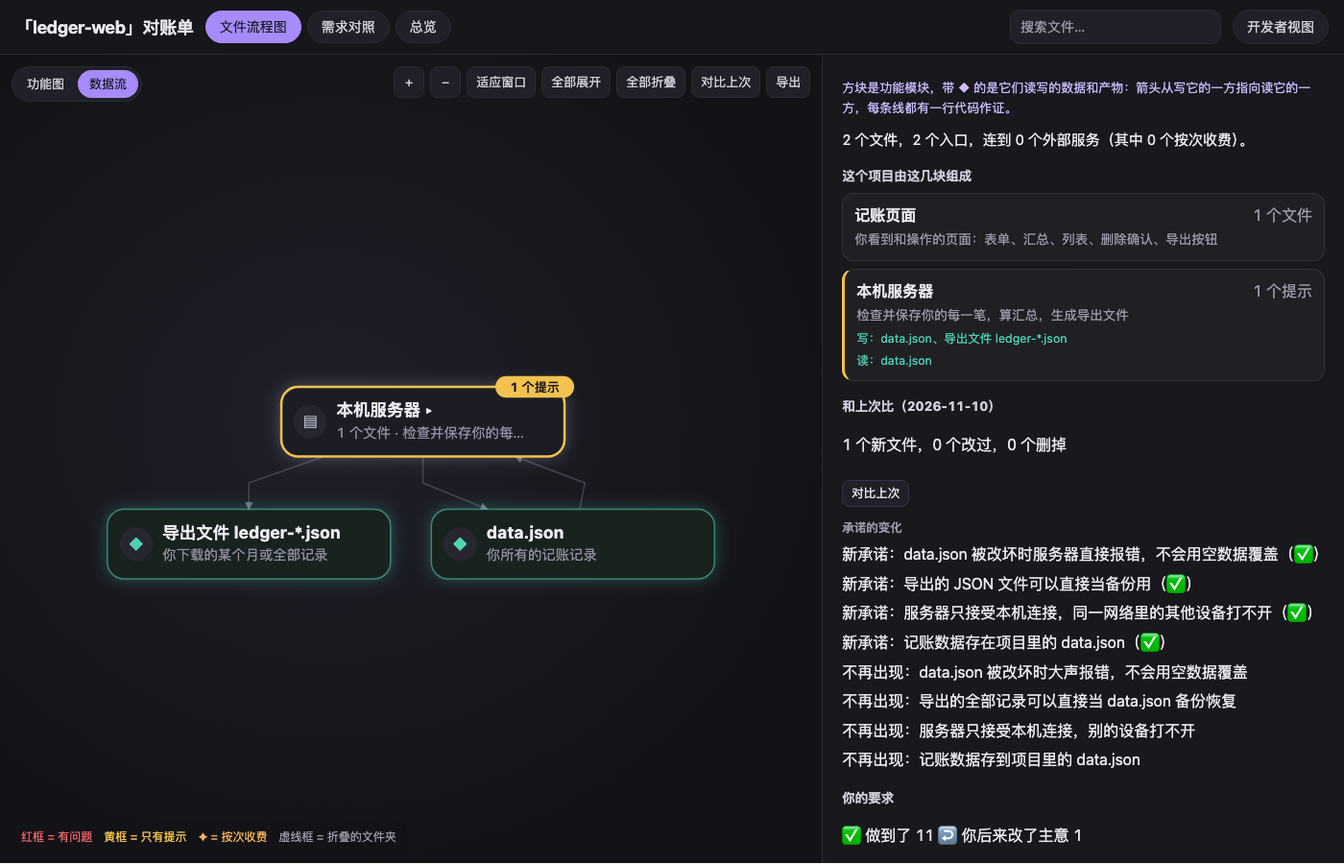
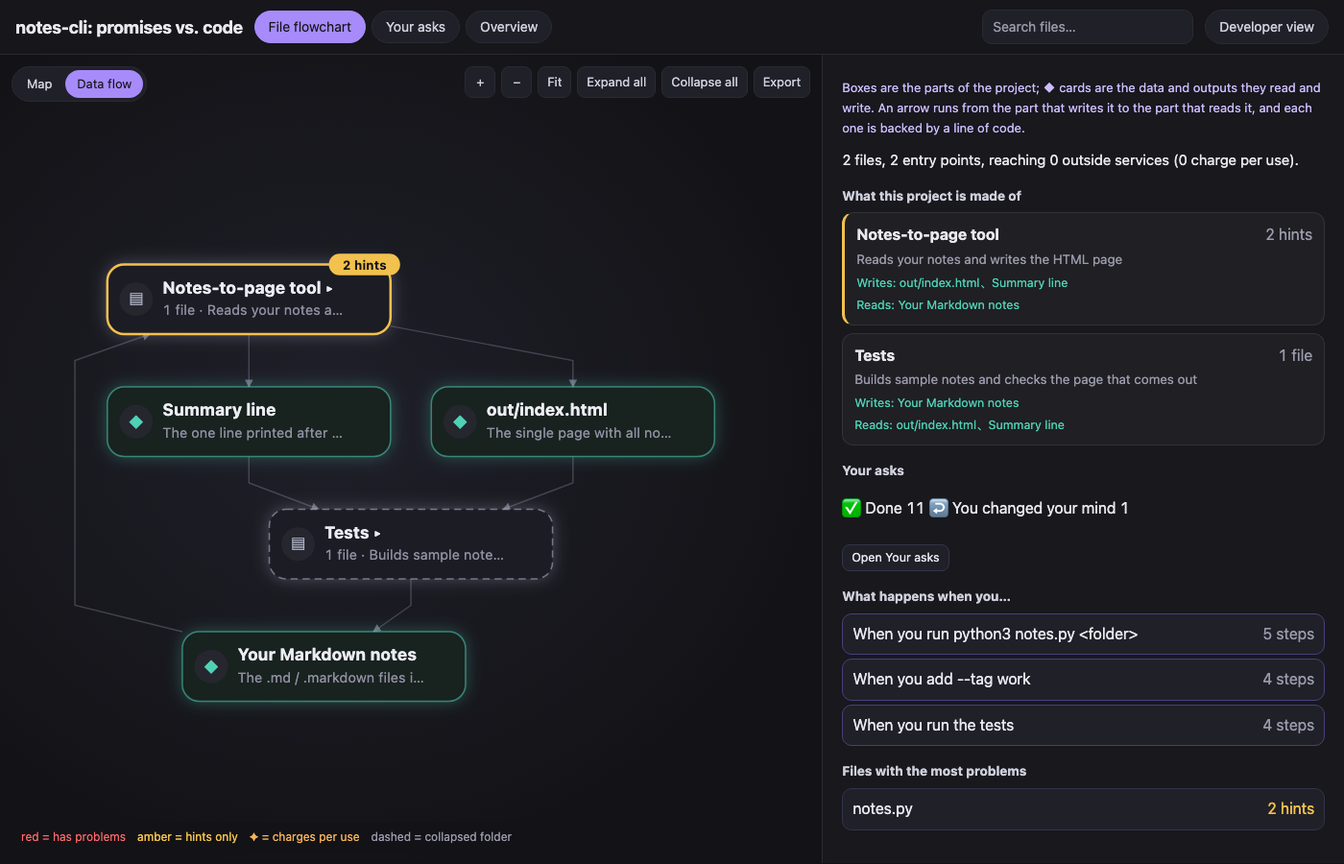
1.0.0: English and Chinese READMEs, plugin homepage, two-way link labels, English plurals
- README.md (English, default) and README_CN.md (Chinese) link each other; each shows
  screenshots in its own language, taken from the synthetic test apps only.
- Map: when two parts send data both ways, each link label sits on its own side of the
  line instead of both printing at the midpoint.
- English UI: "{n|file|files}" plural token in i18n.t and graph.js fmt (1 file, 1 hint).
- plugin.json gains homepage/repository; version 1.0.0 everywhere.

diff --git a/scripts/ledger_report/assets/graph.js b/scripts/ledger_report/assets/graph.js
@@ -45,7 +45,10 @@
   (data.journeys || []).forEach(function (j) { journeyById[j.id] = j; });
   var pointers = {}, drag = null, pinch = null, moved = false;
 
-  function fmt(s, kv) { return String(s).replace(/\{(\w+)\}/g, function (_, k) { return kv[k] == null ? "" : kv[k]; }); }
+  function fmt(s, kv) {  // "{n|file|files}" picks the word for one or for others (same rule as i18n.t)
+    return String(s).replace(/\{(\w+)\|([^|{}]*)\|([^{}]*)\}/g, function (_, k, one, many) { return kv[k] === 1 ? one : many; })
+      .replace(/\{(\w+)\}/g, function (_, k) { return kv[k] == null ? "" : kv[k]; });
+  }
   function el(tag, cls, text) { var e = document.createElement(tag); if (cls) e.className = cls; if (text != null) e.textContent = text; return e; }
   function sv(tag, attrs) { var e = document.createElementNS(NS, tag); Object.keys(attrs || {}).forEach(function (k) { e.setAttribute(k, attrs[k]); }); return e; }
   function units(s) { var n = 0; for (var i = 0; i < s.length; i++) n += s.charCodeAt(i) > 0x2e80 ? 2 : 1; return n; }
@@ -268,9 +271,12 @@
       var carries = mode === "map" && e.carries && e.carries.length ? e.carries.slice(0, 2).join(" · ") + (e.carries.length > 2 ? " …" : "")
         : mode === "data" && !AREAS && (data.data_flow.labels || {})[e.from + "\u0001" + e.to];
       if (carries) {  // what this link sends, from the verified app map
+        // two parts sending data both ways share one line: each label takes its own side of it, not the middle
+        var back = layout.edges[e.to + "\u0001" + e.from], twoWay = mode === "map" && back && back.carries && back.carries.length,
+          side = e.from < e.to ? -1 : 1;
         var c = mode === "map"
-          ? sv("text", { x: mid.x.toFixed(1), y: (mid.y - 6).toFixed(1), "class": "vlg-edge-label carries", "text-anchor": "middle",
-              "data-from": e.from, "data-to": e.to })
+          ? sv("text", { x: (mid.x + (twoWay ? side * 10 : 0)).toFixed(1), y: (mid.y - 6).toFixed(1), "class": "vlg-edge-label carries",
+              "text-anchor": twoWay ? (side < 0 ? "end" : "start") : "middle", "data-from": e.from, "data-to": e.to })
           : sv("text", { x: (ends[1].x - 10).toFixed(1), y: (ends[1].y - 7).toFixed(1), "class": "vlg-edge-label carries",
               "text-anchor": "end", "data-from": e.from, "data-to": e.to });
         c.textContent = carries;

diff --git a/scripts/ledger_report/i18n.py b/scripts/ledger_report/i18n.py
@@ -207,7 +207,7 @@ STR = {
         "g_role_entry": "Entry", "g_role_logic": "Logic", "g_role_data": "Data", "g_role_paid": "Paid service", "g_role_folder": "Folder",
         "g_legend_bad": "red = has problems", "g_legend_warn": "amber = hints only", "g_legend_paid": "✦ = charges per use",
         "g_legend_folder": "dashed = collapsed folder",
-        "g_badge_bad": "{n} problems", "g_badge_warn": "{n} hints",
+        "g_badge_bad": "{n} {n|problem|problems}", "g_badge_warn": "{n} {n|hint|hints}",
         "g_summary": "{files} files, {entries} entry points, reaching {ext} outside services ({paid} charge per use).",
         "g_howto_1": "Read left to right: entry → logic → data & outside; an arrow means \"calls\".",
         "g_howto_2": "Click a file to read what it does; its callers and callees stay sharp, the rest fades.",
@@ -218,18 +218,18 @@ STR = {
         "g_history": "History", "g_no_history_tx": "No conversations were found", "g_no_history": "No conversation touched this file",
         "g_edits": "Changed {count} times in the conversations ({first} to {last})",
         "g_no_explain": "No detailed explanation yet; this is the automatic summary.", "g_unverified": "Unverified: {ids} not found in the project",
-        "g_auto_entry": "This is an entry point ({reason}).", "g_auto_exports": "Provides {n} names: {names}.",
-        "g_auto_noexports": "Provides no functions.", "g_auto_used": "Used by {n} files.",
-        "g_auto_external": "{label}: {n} files in the project reach it.",
-        "g_folder_files": "{n} files · click to open", "g_folder_members": "Files inside", "g_collapse": "Collapse this folder",
-        "g_lines": "{n} lines", "g_in_overview": "See in Overview", "g_where": "Where in the code", "g_close": "Close",
+        "g_auto_entry": "This is an entry point ({reason}).", "g_auto_exports": "Provides {n} {n|name|names}: {names}.",
+        "g_auto_noexports": "Provides no functions.", "g_auto_used": "Used by {n} {n|file|files}.",
+        "g_auto_external": "{label}: {n} {n|file|files} in the project {n|reaches|reach} it.",
+        "g_folder_files": "{n} {n|file|files} · click to open", "g_folder_members": "Files inside", "g_collapse": "Collapse this folder",
+        "g_lines": "{n} {n|line|lines}", "g_in_overview": "See in Overview", "g_where": "Where in the code", "g_close": "Close",
         "g_compromise": "Workaround after an error", "g_dev_snippet": "Code",
         "g_no_files": "No JS/TS or Python files were found in this project, so the flowchart is empty.",
-        "g_merged": "{n} imports",
-        "g_journeys": "What happens when you…", "g_journey_steps": "{n} steps", "g_position": "Where it fits",
+        "g_merged": "{n} {n|import|imports}",
+        "g_journeys": "What happens when you…", "g_journey_steps": "{n} {n|step|steps}", "g_position": "Where it fits",
         "g_position_step": "{title} — step {k} of {n}: {plain}", "g_position_none": "This file is not on any of the routes written for this project.",
         "g_open_journey": "Show this route", "g_journey_outcome": "In the end: {outcome}", "g_back": "Back to overview",
-        "g_unlinked": "No direct import links this step to the one before", "g_skip": "Skip to the explanation panel", "g_exports_n": "{n} exports", "g_dev_note": "Technical note",
+        "g_unlinked": "No direct import links this step to the one before", "g_skip": "Skip to the explanation panel", "g_exports_n": "{n} {n|export|exports}", "g_dev_note": "Technical note",
         "g_mode_files": "Files", "g_mode_modules": "Modules", "g_mode_data": "Data flow",
         "g_modules_hint": "Each box is a module (a folder); the number on a link is how many imports it stands for. Click a module to open it in place.",
         "g_data_hint": "Only the files on a path from an entry to a data store or outside service; a link says what it sends (from the verified app map in the overview).",
@@ -255,7 +255,7 @@ STR = {
         "cov_explain_dropped": "{n} parts of the file explanations failed the checks and were left out of the panel:",
         "g_support": "Shared parts (no data passes through them; the others call them)",
         "g_mode_map": "Map", "g_mode_flow": "Data flow", "g_areas_title": "What this project is made of",
-        "g_area_sub": "{n} files · {plain}", "g_area_row": "{n} files",
+        "g_area_sub": "{n} {n|file|files} · {plain}", "g_area_row": "{n} {n|file|files}",
         "g_area_other_name": "Other", "g_area_other_plain": "Files no area claims",
         "g_area_of": "Part of “{name}”: {plain}",
         "g_map_hint": "Each box is one part of the project; click it to open its files in place. A link says what data passes between two parts (dashed = only through that data, no direct call), or how many calls it stands for.",
@@ -269,7 +269,7 @@ STR = {
         "r_intro": "Every requirement you gave in the conversations, checked one by one against the code as it is now. Each verdict carries checked evidence; what could not be checked shows ❓.",
         "r_status_done": "Done", "r_status_partial": "Partly done", "r_status_missing": "Not done",
         "r_status_changed": "Done differently", "r_status_superseded": "You changed your mind", "r_status_unknown": "Can't tell",
-        "r_summary": "{n} requirements from your {messages} messages; {skipped} more were confirmations, process instructions or questions.",
+        "r_summary": "{n} {n|requirement|requirements} from your {messages} {messages|message|messages}; {skipped} more {skipped|was a confirmation, process instruction or question|were confirmations, process instructions or questions}.",
         "r_summary_unaccounted": " {n} messages are not accounted for (listed at the bottom).",
         "r_filter_problems": "Problems only",
         "r_changed_to": "What was built instead: {text}", "r_agreed": "You agreed to this change · {date}",
@@ -281,20 +281,25 @@ STR = {
         "r_cov_title": "What this page does not cover",
         "r_cov_messages": "You sent {n} messages; {cited} of them are the source of a requirement",
         "r_cov_skipped": "Not counted as requirements: {parts}",
-        "r_skip_ack": "{n} confirmations", "r_skip_process": "{n} process instructions (push, check, status…)",
-        "r_skip_question": "{n} questions", "r_skip_not_project": "{n} about something else",
+        "r_skip_ack": "{n} {n|confirmation|confirmations}", "r_skip_process": "{n} process {n|instruction|instructions} (push, check, status…)",
+        "r_skip_question": "{n} {n|question|questions}", "r_skip_not_project": "{n} about something else",
         "r_cov_noise": "{n} more were written by the tool itself (such as interruption notes) and are not counted",
         "r_cov_unaccounted": "{n} messages are neither a requirement nor skipped with a reason — a requirement may be missing here:",
         "r_cov_rejected": "{n} requirements failed the checks (the quote was not found, or you did not say it) and are not listed:",
         "g_requirements": "What you asked about this file", "g_req_title": "Your asks", "g_req_open": "Open Your asks",
-        "g_req_unaccounted": "{n} messages not accounted for",
+        "g_req_unaccounted": "{n} {n|message|messages} not accounted for",
     },
 }
 
 
+PLURAL = re.compile(r"\{(\w+)\|([^|{}]*)\|([^{}]*)\}")  # "{n|file|files}": the word for one, the word for others
+
+
 def t(lang: str, key: str, **kw) -> str:
     text = STR.get(lang, STR["en"]).get(key, STR["en"][key])
-    return text.format(**kw) if kw else text
+    if not kw:
+        return text
+    return PLURAL.sub(lambda m: m.group(2) if kw.get(m.group(1)) == 1 else m.group(3), text).format(**kw)
 
 
 _CREDENTIALS_EN = ", and it also accepts the visitor's cookies and credentials"

diff --git a/tests/test_render_page.py b/tests/test_render_page.py
@@ -138,3 +138,16 @@ def test_without_conversations_the_report_does_not_claim_zero_problems():
     html = render.render_html(led, run, PROBES, "zh")
     assert "没做到 <b>0</b>" not in html and 'class="counts"' not in html
     assert "0 条承诺没做到" not in html and "没有对话记录，这一问无法回答" in html
+
+
+def test_english_counts_take_the_singular_for_one():
+    from pathlib import Path
+    from ledger_report.i18n import STR, t
+    assert t("en", "g_area_row", n=1) == "1 file" and t("en", "g_area_row", n=2) == "2 files"
+    assert t("en", "g_badge_warn", n=1) == "1 hint" and t("en", "g_badge_warn", n=0) == "0 hints"
+    one = t("en", "r_summary", n=1, messages=1, skipped=1)
+    assert one.startswith("1 requirement from your 1 message; 1 more was a confirmation"), one
+    assert t("zh", "g_area_row", n=1) == "1 个文件"
+    assert not any("|" in v and "{" in v for v in STR["zh"].values() if isinstance(v, str))
+    js = (Path(__file__).resolve().parents[1] / "scripts/ledger_report/assets/graph.js").read_text(encoding="utf-8")
+    assert "one : many" in js  # graph.js formats the same "{n|one|many}" token

diff --git a/tests/test_packaging.py b/tests/test_packaging.py
@@ -29,3 +29,14 @@ def test_manifest_shape():
 def test_readme_and_license_exist():
     readme = (REPO / "README.md").read_text(encoding="utf-8")
     assert "vl.py start" in readme and "MIT" in (REPO / "LICENSE").read_text(encoding="utf-8")
+
+
+def test_readmes_link_each_other_and_show_their_own_screenshots():
+    en = (REPO / "README.md").read_text(encoding="utf-8")
+    zh = (REPO / "README_CN.md").read_text(encoding="utf-8")
+    assert 'href="README_CN.md"' in en and 'href="README.md"' in zh
+    for text in (en, zh):
+        for img in __import__("re").findall(r'src="(docs/[^"]+)"', text):
+            assert (REPO / img).is_file(), img
+    assert "docs/assets/map-zh.png" in zh and "docs/assets/map.png" in en
+    assert "/plugin install vibe-ledger@vibe-ledger" in en and "/plugin install vibe-ledger@vibe-ledger" in zh

diff --git a/scripts/common.py b/scripts/common.py
@@ -12,7 +12,7 @@ from functools import lru_cache
 from pathlib import Path
 from typing import Iterable, Iterator
 
-__version__ = "0.3.0"
+__version__ = "1.0.0"
 
 _WS = re.compile(r"\s+")
 

diff --git a/README.md b/README.md
@@ -1,28 +1,52 @@
 # vibe-ledger
 
-You built an app by talking to an AI. vibe-ledger reads those conversations (Claude Code and Codex) and the code they produced, and gives you one offline page that answers three things: **what your app is made of, whether the AI built what you asked for, and where it could hurt you.** Every conclusion carries evidence a script has checked; anything it cannot check shows as ❓, never as fact.
+<p align="center"><strong>English</strong> · <a href="README_CN.md">简体中文</a></p>
 
-**中文简介**：用 AI 写出了应用，却看不懂它、也说不准 AI 有没有按你的要求做？vibe-ledger 读取你和 AI 的对话（Claude Code、Codex）和现在的代码，生成一份本地网页：项目由哪几块组成、数据怎么流动；你提过的每条要求做到了没有（做到 / 部分 / 没做 / 换了做法 / 你后来改了主意）；以及数据存在哪、谁能看到、什么会花钱、哪里最容易出事、还欠着什么。每个结论都有脚本核对过的证据，核对不了的标 ❓。
+<p align="center">
+  <a href="LICENSE"><img alt="License: MIT" src="https://img.shields.io/badge/License-MIT-yellow.svg"></a>
+  <img alt="Claude Code plugin" src="https://img.shields.io/badge/Claude_Code-plugin-5b5bd6">
+  <img alt="Reads Claude Code and Codex conversations" src="https://img.shields.io/badge/reads-Claude_Code_%2B_Codex-111827">
+  <img alt="Runs locally" src="https://img.shields.io/badge/runs-locally-0f766e">
+</p>
+
+You built an app by talking to an AI. vibe-ledger reads those conversations (Claude Code and Codex) and the code they produced, and gives you one offline page that answers three things: **what your app is made of, whether the AI built what you asked for, and where it could hurt you.** Every conclusion carries evidence a script has checked; anything it cannot check shows as ❓, never as fact.
 
 <p align="center"><img src="docs/assets/asks.png" alt="The Your asks tab: each request from the conversations with its verdict and evidence" width="860"></p>
 
 ## What you get
 
-**Your asks (需求对照).** Every request you typed, checked against the code as it is now: ✅ done, ⚠ partly, ❌ not done, 🔀 done differently (and whether you agreed), ↩ you changed your mind later, ❓ can't tell. Grouped by feature, with the line of code behind each verdict and a fix instruction you can paste back to your AI. A "not done" is backed by searches the tool re-runs over your project. Every message you sent is accounted for: a requirement, or skipped as a confirmation, a process instruction or a question — anything left over is listed, because a requirement may hide there.
+**Your asks.** Every request you typed, checked against the code as it is now: ✅ done, ⚠ partly, ❌ not done, 🔀 done differently (and whether you agreed), ↩ you changed your mind later, ❓ can't tell. Grouped by feature, with the line of code behind each verdict and a fix instruction you can paste back to your AI. A "not done" is backed by searches the tool re-runs over your project. Every message you sent is accounted for: a requirement, or skipped as a confirmation, a process instruction or a question — anything left over is listed, because a requirement may hide there.
 
-**The map (功能图).** Your project's parts — "配音", "交付检查", "行程页面" — each with one line on what it does, top to bottom in the order data moves, each link saying what passes ("storyboard.json"). Click a part to open its files; click a file for what it does, its main functions, who calls it, its risks and how it came to be. Routes ("what happens when you press Export") step through the files, with a sequence diagram.
+**The map.** Your project's parts — "Voice-over", "Delivery checks", "Trip page" — each with one line on what it does, top to bottom in the order data moves, each link saying what passes ("storyboard.json"). Click a part to open its files; click a file for what it does, its main functions, who calls it, its risks and how it came to be. Routes ("what happens when you press Export") step through the files, with a sequence diagram.
 
-**Data flow (数据流).** The parts, the data and outputs between them (◆) and the paid services they call. Click a data card to see the exact lines that write and read it.
+**Data flow.** The parts, the data and outputs between them (◆) and the paid services they call. Click a data card to see the exact lines that write and read it.
 
 <p align="center"><img src="docs/assets/map.png" alt="The map: the project's parts top to bottom with what passes between them" width="430"> <img src="docs/assets/flow.png" alt="Data flow: parts, data cards and outside services" width="430"></p>
 
-**Overview (总览).** The safety ledger: where your data lives, what costs money, who can see it (a matrix of strangers / other users / you), where it is most likely to break, and what was put off "for later" — each promise checked against the code, workarounds made just to get past an error called out, and what the report could not see.
+**Overview.** The safety ledger: where your data lives, what costs money, who can see it (a matrix of strangers / other users / you), where it is most likely to break, and what was put off "for later" — each promise checked against the code, workarounds made just to get past an error called out, and what the report could not see.
 
-Also: compare with the last run (new and changed files, links, risks), export the map as PNG or SVG, a plain view and a developer view, Chinese and English pages.
+Also: compare with the last run (new and changed files, links, promises and risks), export the map as PNG or SVG, a plain view and a developer view, Chinese and English pages.
+
+## Install
+
+Python 3.10+ and Google Chrome (for the screenshots; without it the agent reads the page instead). No other dependencies.
+
+As a Claude Code plugin:
+
+```
+/plugin marketplace add dong845/vibe-ledger
+/plugin install vibe-ledger@vibe-ledger
+```
+
+Or as a plain skill folder:
+
+```bash
+git clone --depth 1 https://github.com/dong845/vibe-ledger.git ~/.claude/skills/vibe-ledger
+```
 
 ## Use
 
-In Claude Code, with the skill installed, open your project and ask: *"explain my app and check it — did the AI build what I asked for?"* / *"帮我看懂这个 AI 写的项目，检查它有没有按我的要求做"*. The skill runs the steps itself and puts the report on your Desktop (or Downloads):
+In Claude Code, open your project and ask: *"explain my app and check it — did the AI build what I asked for?"* The skill runs the steps itself and puts the report on your Desktop (or Downloads):
 
 ```
 python3 scripts/vl.py start  --project <your app folder>    # finds the conversations, writes reading packs
@@ -35,16 +59,6 @@ python3 scripts/vl.py shot   --project <your app folder>    # screenshots for th
 Language follows your messages; `start --lang en` or `--lang zh` sets it (the agent then writes in that language too).
 
 **What a run costs.** On two small apps (one or two code files, a six-message conversation), a fresh Claude Code session took 7–8 minutes and reported $2.30 and $2.59 of usage. A big project with months of conversations is split into many reading packs that subagents read in parallel: expect it to take much longer and use much more.
-
-## Install
-
-Python 3.10+ and Google Chrome (for the screenshots; without it the agent reads the page instead). No other dependencies.
-
-```bash
-git clone --depth 1 https://github.com/dong845/vibe-ledger.git ~/.claude/skills/vibe-ledger
-```
-
-Or as a Claude Code plugin: `/plugin marketplace add dong845/vibe-ledger`, then `/plugin install vibe-ledger@vibe-ledger`.
 
 ## Privacy
 

diff --git a/README_CN.md b/README_CN.md
@@ -1,0 +1,85 @@
+# vibe-ledger
+
+<p align="center"><a href="README.md">English</a> · <strong>简体中文</strong></p>
+
+<p align="center">
+  <a href="LICENSE"><img alt="License: MIT" src="https://img.shields.io/badge/License-MIT-yellow.svg"></a>
+  <img alt="Claude Code plugin" src="https://img.shields.io/badge/Claude_Code-plugin-5b5bd6">
+  <img alt="读取 Claude Code 和 Codex 对话" src="https://img.shields.io/badge/reads-Claude_Code_%2B_Codex-111827">
+  <img alt="只在本机运行" src="https://img.shields.io/badge/runs-locally-0f766e">
+</p>
+
+你靠和 AI 对话做出了一个应用，却看不懂它，也说不准 AI 有没有按你的要求做。vibe-ledger 读取你和 AI 的对话（Claude Code、Codex）以及现在的代码，生成一份离线网页，回答三件事：**这个应用由什么组成，AI 有没有做成你要的样子，哪里可能坑到你。** 每个结论都带着脚本核对过的证据；核对不了的标 ❓，不会当成事实。
+
+<p align="center"><img src="docs/assets/asks-zh.png" alt="需求对照：对话里的每条要求、结论和证据" width="860"></p>
+
+## 你会得到什么
+
+**需求对照。** 你提过的每条要求，逐条和现在的代码对照：✅ 做到了、⚠ 部分做到、❌ 没做、🔀 换了做法（以及你是否同意过）、↩ 你后来改了主意、❓ 判断不了。按功能分组，每条附上作为依据的那行代码，以及一段可以直接贴回给 AI 的修复指令。「没做」由工具在你的项目里重新搜索来证明。你发过的每条消息都有交代：要么整理成要求，要么注明跳过的原因（确认、流程指令、提问）；剩下没交代的会单独列出，因为里面可能藏着漏掉的要求。
+
+**功能图。** 项目由哪几块组成，比如「配音」「交付检查」「行程页面」，每块一句话说明它做什么。按数据流动的顺序从上往下排，每条连线写明传的是什么（如「storyboard.json」）。点一块就地展开它的文件；点一个文件，看它做什么、主要函数、谁调用它、有什么风险、是怎么来的。「点一下会发生什么」把一次操作（比如按下「导出」）拆成经过的文件，附时序图。
+
+**数据流。** 各个功能块、它们之间传递的数据和产物（◆），以及它们调用的收费服务。点一张数据卡片，能看到写它和读它的具体代码行。
+
+<p align="center"><img src="docs/assets/map-zh.png" alt="功能图：项目的几块从上往下排，连线写明传的是什么" width="430"> <img src="docs/assets/flow-zh.png" alt="数据流：功能块、数据卡片和外部服务" width="430"></p>
+
+**总览。** 安全对账单：数据存在哪、什么会花钱、谁能看到（陌生人 / 其他用户 / 你自己的矩阵）、哪里最容易出事、还有哪些说了「以后再做」。每条承诺都和代码核对过；只是为了让报错消失而放松保护的改动会被单独指出；报告看不到的地方也会写明。
+
+另外还有：和上一次对比（新增、改动的文件、连线、承诺和风险）、把功能图导出为 PNG 或 SVG、大白话视图和开发者视图、中英文页面。
+
+## 安装
+
+需要 Python 3.10+ 和 Google Chrome（用来截图；没有 Chrome 时，AI 会改为直接读网页）。没有其他依赖。
+
+作为 Claude Code 插件安装：
+
+```
+/plugin marketplace add dong845/vibe-ledger
+/plugin install vibe-ledger@vibe-ledger
+```
+
+或者作为普通 skill 文件夹：
+
+```bash
+git clone --depth 1 https://github.com/dong845/vibe-ledger.git ~/.claude/skills/vibe-ledger
+```
+
+## 使用
+
+在 Claude Code 里打开你的项目，说：*「帮我看懂这个 AI 写的项目，检查它有没有按我的要求做」*。skill 会自己跑完下面这些步骤，把报告放到桌面（或「下载」文件夹）：
+
+```
+python3 scripts/vl.py start  --project <你的应用文件夹>    # 找到相关对话，生成阅读材料
+# AI 读完后写出 ledger.json、requirements.json 和 explain.json
+python3 scripts/vl.py check  --project <你的应用文件夹>    # 核对每条引用、每行代码、每次搜索
+python3 scripts/vl.py render --project <你的应用文件夹>
+python3 scripts/vl.py shot   --project <你的应用文件夹>    # 截图，供 AI 检查页面
+```
+
+报告语言跟随你在对话里用的语言；也可以用 `start --lang zh` 或 `--lang en` 指定（AI 也会改用这种语言来写）。
+
+**跑一次的花费。** 在两个小应用上（一两个代码文件，六轮对话），一个全新的 Claude Code 会话用了 7–8 分钟，显示的用量分别是 $2.30 和 $2.59。大项目、几个月的对话会拆成很多份阅读材料，由子代理并行阅读：耗时和用量都会多得多。
+
+## 隐私
+
+一切都在你的电脑上运行，不向任何地方发送数据。对话或代码里发现的密钥，在工具写出的所有文件里都会打码（如 `sk-proj-…wXyZ`）；如果有漏网的，报告会拒绝生成。工作文件放在 `~/.vibe-ledger`，不会写进你的项目。
+
+**报告会引用你的对话原文。** 密钥会打码，但你说过的话都在里面。公开分享报告前请先想一想。
+
+Claude Code 默认删除 30 天前的对话。vibe-ledger 会为每个项目保留一份打过码的对话副本，并会提议延长这个期限，但只有你同意才会改。
+
+## 局限
+
+- 对话只读这台电脑上的 Claude Code 和 Codex 记录。在别处提的要求（聊天软件、电话）看不到。
+- 流程图覆盖 JS/TS、Python 以及自带脚本的 HTML 页面，依据静态 import 和页面调用的 API 路径；不追踪运行时实际发生的调用。
+- 不需要模型的安全检查（探针）覆盖 Web 技术栈：Next.js、Vite + React、Express、Supabase、Firebase、CORS、密钥泄露、没有登录检查的收费 API。其他技术栈会在报告里注明「未覆盖」。
+- 它只读代码，不运行你的应用。
+
+## 开发
+
+```
+python3 -m pytest
+python3 tests/e2e/prepare.py --out /tmp/vl-e2e   # 带有预埋问题的测试应用
+```
+
+许可证：MIT。
